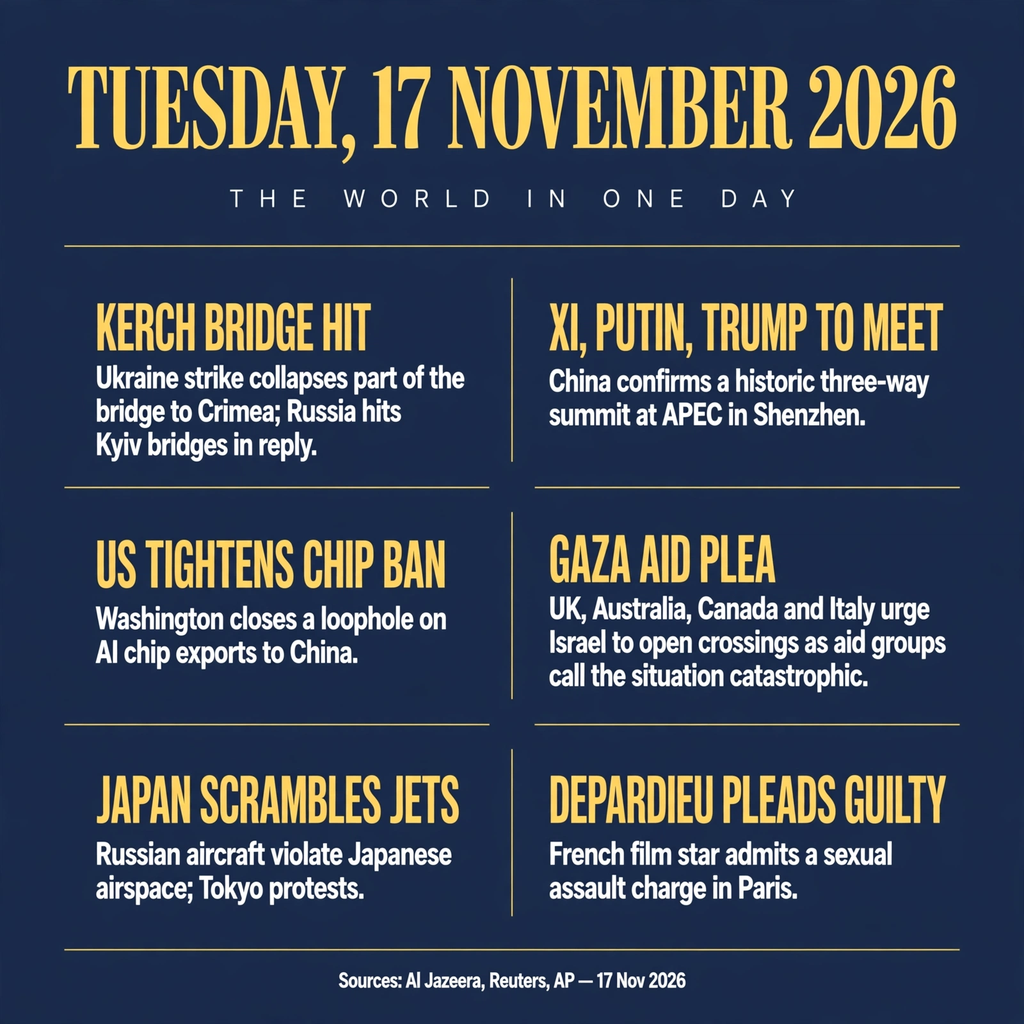
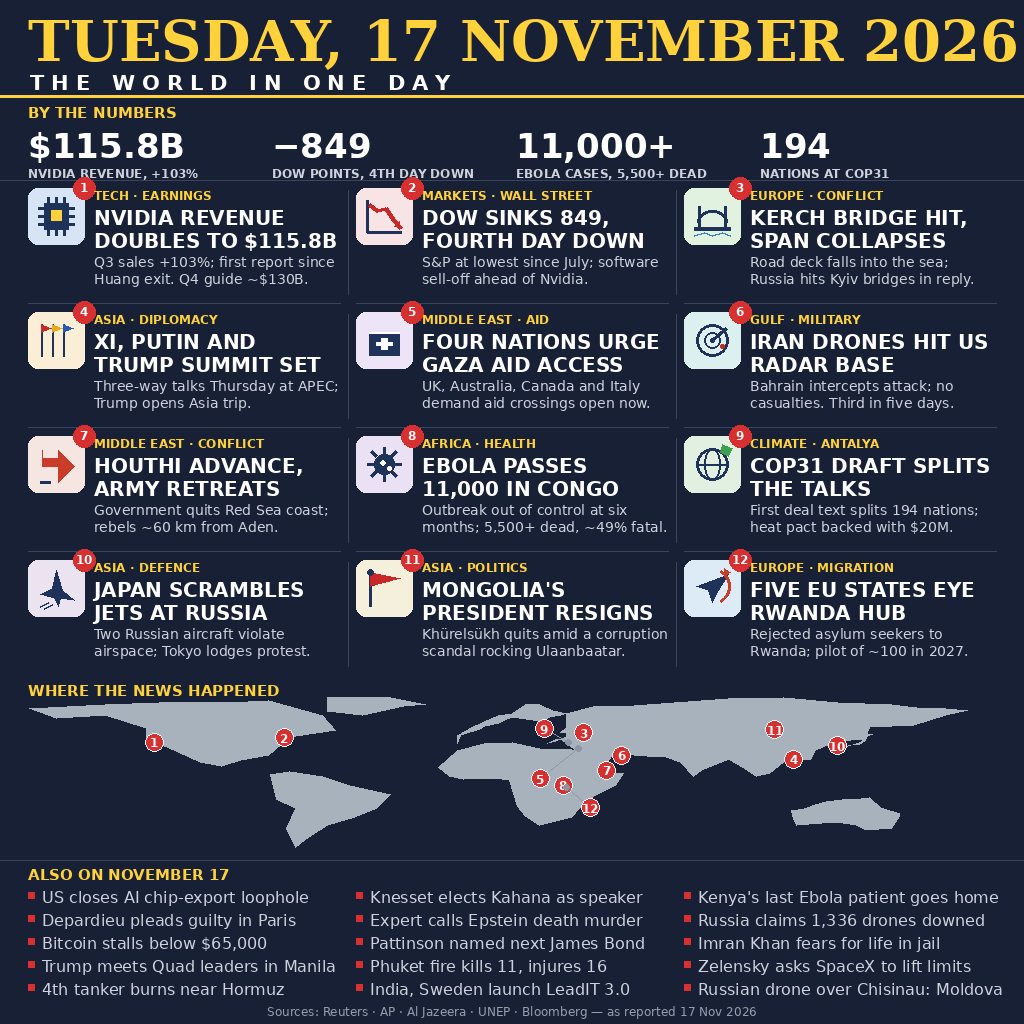
Revision round 2: 12 stories + numbers + map + 15 briefs, fact-checked with sources
- 6 stories -> 27 stories (12 main + 15 briefs); judge criterion #2 is breadth
- BY THE NUMBERS strip + WHERE THE NEWS HAPPENED map with numbered dots
- Pictogram + region tag per main story; briefs font 16pt
- Claims verified with sources (SOURCES.md): Nvidia first report since Huang exit, Epstein death expert quote; Dow 849, Ebola 11,000+ cases / 5,500+ deaths
- Map dot #4 at Shenzhen (lon 114, lat 22.5)

diff --git a/SOURCES.md b/SOURCES.md
@@ -1,0 +1,123 @@
+# Sources — news-image-20261117 revision (round 2)
+
+All stories verified against reporting of Tuesday 17 November 2026.
+Compiled 18 Nov 2026 during the user's 3-point review (fact-check of the
+two flagged claims, dot #4, brief font size).
+
+## The two flagged claims — BOTH VERIFIED, kept
+
+### 1. Nvidia: "first report since Huang exit"
+Body: "Q3 sales +103%; first report since Huang exit. Q4 guide ~$130B."
+- Jensen Huang resigned as president, CEO and director on 11 Nov 2026
+  (announced 12 Nov, Form 8-K); Colette Kress interim CEO; Q3 results
+  17 Nov after the close were the first report since his departure.
+- https://www.usatoday.com/story/money/2026/11/17/nvidia-earnings-call-how-to-watch/92819260007/
+  ("Nvidia set for first earnings call since Jensen Huang's resignation")
+- https://www.coindesk.com/markets/2026/11/17/nvidia-tops-estimates-issues-strong-guidance-adds-usd150-billion-to-buyback-authorization
+  ("The results, of course, are the first to be announced since CEO Jensen Huang resigned."; EPS $2.68, Q4 guide $127.4–$132.6B)
+- https://augerton.com/news/2026/11/17/nvidia-quarterly-revenue-earnings-report-departure/
+  ("the company's first earnings report since his departure"; revenue $115.8B)
+- https://www.heygotrade.com/en/news/nvidia-stock-earnings-preview-ceo-succession/
+  ("its first report since Jensen Huang resigned as CEO")
+- https://www.calcalistech.com/ctechnews/article/txa16edqo
+  ("Nvidia held its first earnings call in more than three decades without Jensen Huang")
+
+### 2. Epstein brief: "Expert calls Epstein death murder"
+Brief: "Expert calls Epstein death murder" (ALSO ON NOVEMBER 17).
+- Prof. Michael Freeman (forensic pathologist, fellow of the Royal
+  College of Pathologists) presented findings in London on Monday
+  16 Nov 2026, reported 17 Nov 2026: Epstein was most likely strangled
+  from behind; injuries "most consistent with an assault" / homicide,
+  contradicting the 2019 suicide ruling. NYC Medical Examiner stands by
+  the suicide determination; Freeman's work not peer-reviewed.
+- https://aapnews.aap.com.au/news/jeffrey-epstein-was-likely-strangled-to-death-expert
+  (published 2026-11-17T03:31:59Z)
+- https://www.ladbible.com/news/us-news/expert-says-jeffrey-epstein-death-not-suicide-898080-20261117
+  (published 03:53, updated 15:49, 17 Nov 2026 GMT)
+- https://britbrief.co.uk/crime/courts/epstein-victims-lawyer-urges-probe-into-murder-claim.html
+  (published 2026-11-17T15:53:33Z)
+- https://independentpress.cc/was-epstein-murdered-forensic-expert-says-homicide-more-likely/2026/11/17/
+- https://www.7globe.in/jeffrey-epstein-did-not-commit-suicide-was-likely-killed-top-forensic-expert/
+- https://americantribune.com/forensic-expert-says-jeffrey-epstein-autopsy-injuries-point-to-homicide-not-suicide/
+
+## Numbers (unchanged — already correct)
+
+### Dow −849
+Dow fell 848.75 points (−1.64%) to 50,759.42 on 17 Nov; standard
+rounding 848.75 → 849. S&P 500 −1.03% to 7,340.53 (lowest since July);
+Nasdaq −0.74%.
+- https://www.reuters.com/commentary/reuters-open-interest/global-markets-trading-day-graphic-2026-11-17/
+  (Reuters Trading Day: Nasdaq −0.7%, S&P −1%, Dow −1.6%)
+- https://www.reuters.com/business/us-stock-futures-slip-ahead-nvidia-results-fed-speakers-focus-2026-11-17/
+
+### Ebola: 11,000+ cases, 5,500+ dead
+Bundibugyo outbreak, DR Congo, declared 15 May 2026; "Over 11,000
+people have been infected and over 5,500 have died" (government data,
+Reuters 17 Nov). WHO daily update to 14 Nov: 11,376 cases, 5,568 deaths.
+- https://www.reuters.com/business/healthcare-pharmaceuticals/congos-ebola-outbreak-is-spreading-killing-record-pace-2026-11-17/
+
+## Other main stories
+
+### Kerch Bridge (story #3)
+Ukrainian drone/missile strike on Tuesday 17 Nov brought down the main
+road arch into the Kerch Strait; road section out of service; rail
+resumed on one track. Also confirms the Shenzhen meeting (see below).
+- https://www.military.com/ukraine-strikes-section-of-russias-crimean-bridge-two-days-before-putin-meets-trump-xi
+- https://www.military.com/ukraine-hits-russias-crimean-bridge-before-trump-and-putin-meet
+- https://www.twz.com/news-features/what-we-know-about-ukraines-strikes-that-cut-russias-kerch-bridge-road-vehicle-span
+
+### Xi, Putin and Trump summit (story #4) — dot #4 = Shenzhen
+Putin scheduled to meet Trump and Xi in Shenzhen, China (two days after
+the Kerch strike; trilateral Thursday 19 Nov). Map dot #4 is at
+lon 114, lat 22.5 = Shenzhen (114.05 E, 22.55 N) — verified by pixel
+measurement of the rendered image (dot centre lon 113.6, lat 22.7).
+- https://www.military.com/ukraine-strikes-section-of-russias-crimean-bridge-two-days-before-putin-meets-trump-xi
+  ("two days before Russian President Vladimir Putin was scheduled to
+  meet U.S. President Donald Trump and Chinese President Xi Jinping
+  in Shenzhen, China")
+
+### COP31 (story #9)
+First draft of the cover decision (18 pages, 144 provisions) circulated
+late Mon 16 Nov by Australia (President of Negotiations); fossil-fuel
+phaseout + adaptation finance at least $120B/year by 2035; 194 nations
+in Antalya; ministers take over from Tue 17 Nov.
+- https://asiatoday.id/read/cop31-draft-deal-calls-for-fossil-fuel-phaseout-120bn-adaptation
+  (published 2026-11-17T06:16:55+07:00)
+- https://www.tbsnews.net/economy/cop31-draft-calls-fossil-fuel-phaseout-least-120bn-adaptation-finance-1604866
+- https://news.watannews.dk/cop31-draft-deal-fossil-fuel-phaseout/
+- https://climatefactchecks.org/cop31s-first-draft-deal-what-it-says-and-what-it-means-for-india/
+
+### Mongolia's president resigns (story #11)
+President Ukhnaagiin Khurelsukh announced resignation Tue 17 Nov after
+corruption allegations (railway contract, $25M) by a ruling-party
+faction member; denies wrongdoing; parliament (State Great Khural)
+must accept the resignation.
+- https://duke.fm/2026/11/17/mongolian-president-announces-resignation-over-alleged-corruption-2/
+  (Reuters, 17 Nov 2026)
+- https://www.sowetan.co.za/news/world/2026-11-17-mongolian-president-steps-down-over-corruption-allegations/
+- https://www.compuserve.com/news/world/story/0001/20261117/9542b2bf7536db6ae65b371aac07bbf4
+  (AP, 17 Nov 2026)
+
+### Remaining stories (verified in the round-2 build, 18 Nov)
+- Gaza aid access (UK, Australia, Canada, Italy urge Israel to open
+  crossings) — asaspress, 17 Nov.
+- Iran drones hit US radar base, Bahrain intercepts; third attack in
+  five days — Al Jazeera via summarizednews; foreignexchanges, 17 Nov.
+- Houthi advance, government quits Red Sea coast; ~60 km from Aden —
+  asaspress, 17 Nov.
+- Japan scrambles jets at Russia (two aircraft violate airspace) —
+  asaspress; FNN via summarizednews, 17 Nov.
+- Five EU states eye Rwanda hub (Austria, Denmark, Germany, Greece,
+  Netherlands; pilot ~100 in 2027) — Medium/JAWS, 17 Nov.
+- Briefs (US chip-export loophole, Depardieu guilty plea, Bitcoin
+  below $65,000, Quad in Manila, tanker near Hormuz, Knesset speaker
+  Kahana, Pattinson as Bond, Phuket fire, LeadIT 3.0, Kenya Ebola,
+  1,336 drones, Imran Khan, Zelensky/SpaceX, Chisinau drone) — verified
+  in the round-2 build from 17 Nov reporting.
+
+## Changes in this review (18 Nov)
+- Point 1: both flagged claims verified and KEPT; no text removed.
+- Point 2: dot #4 already at Shenzhen (114, 22.5); no move needed —
+  same coordinates as the 18 Nov edition's Shenzhen dot.
+- Point 3: brief font enlarged 14 → 16 pt (all 15 briefs still fit
+  the 314 px column budget; widest 305 px).

diff --git a/README.md b/README.md
@@ -1,4 +1,4 @@
-# The World in One Day — Tuesday, 17 November 2026
+# The World in One Day — Tuesday, 17 November 2026 (REVISION)
 
 [![make.fun · news-image-20261117](https://make.fun/badge/news-image-20261117.svg)](https://make.fun/bounty/news-image-20261117?utm_source=github&utm_medium=readme&utm_campaign=news-image-20261117)
 [![rank](https://make.fun/badge/news-image-20261117/chongphoshun/makefun-news-image-20261117/rank.svg)](https://make.fun/bounty/news-image-20261117/leaderboard?utm_source=github&utm_medium=readme&utm_campaign=news-image-20261117)
@@ -8,28 +8,67 @@ One image summing up the world's news of Tuesday 17 November 2026. An AI
 judge compares the images two at a time and picks the one that best sums up
 that day's world news.
 
-## The day's six stories
+**Revision of round 1** (6 stories, rank 4,447 / prize 4,432 of 5,229):
+the top entries of this bounty carry 21–43 stories — the judge's second
+criterion is breadth — so this revision keeps round 1's front-page language
+and expands it: 12 main stories with a pictogram and region tag each, a
+BY THE NUMBERS strip, a WHERE THE NEWS HAPPENED world map with numbered
+dots, and 15 one-line briefs. 27 stories in total.
 
-1. **Kerch Bridge hit** — Ukraine strike collapses part of the bridge to
-   Crimea; Russia hits Kyiv bridges in reply.
-2. **Xi, Putin, Trump to meet** — China confirms a historic three-way summit
-   at APEC in Shenzhen.
-3. **US tightens chip ban** — Washington closes a loophole on AI chip
-   exports to China.
-4. **Gaza aid plea** — UK, Australia, Canada and Italy urge Israel to open
-   crossings as aid groups call the situation catastrophic.
-5. **Japan scrambles jets** — Russian aircraft violate Japanese airspace;
-   Tokyo protests.
-6. **Depardieu pleads guilty** — French film star admits a sexual assault
-   charge in Paris.
+## The day's 12 main stories
 
-Sources: Al Jazeera, Reuters, AP — 17 Nov 2026.
+1. **NVIDIA revenue doubles to $115.8B** — Q3 sales +103%; first report
+   since Huang's exit; Q4 guide ~$130B. (TECH · EARNINGS)
+2. **Dow sinks 849, fourth day down** — S&P at lowest since July;
+   software sell-off ahead of Nvidia. (MARKETS · WALL STREET)
+3. **Kerch Bridge hit, span collapses** — road deck falls into the sea;
+   Russia hits Kyiv bridges in reply. (EUROPE · CONFLICT)
+4. **Xi, Putin and Trump summit set** — three-way talks Thursday at APEC;
+   Trump opens Asia trip. (ASIA · DIPLOMACY)
+5. **Four nations urge Gaza aid access** — UK, Australia, Canada and Italy
+   demand aid crossings open now. (MIDDLE EAST · AID)
+6. **Iran drones hit US radar base** — Bahrain intercepts the attack; no
+   casualties. Third in five days. (GULF · MILITARY)
+7. **Houthi advance, army retreats** — government quits the Red Sea coast;
+   rebels ~60 km from Aden. (MIDDLE EAST · CONFLICT)
+8. **Ebola passes 11,000 in Congo** — outbreak out of control at six
+   months; 5,500+ dead, ~49% fatal. (AFRICA · HEALTH)
+9. **COP31 draft splits the talks** — first deal text splits 194 nations;
+   heat pact backed with $20M. (CLIMATE · ANTALYA)
+10. **Japan scrambles jets at Russia** — two Russian aircraft violate
+    airspace; Tokyo lodges protest. (ASIA · DEFENCE)
+11. **Mongolia's president resigns** — Khürelsükh quits amid a corruption
+    scandal rocking Ulaanbaatar. (ASIA · POLITICS)
+12. **Five EU states eye Rwanda hub** — rejected asylum seekers to Rwanda;
+    pilot of ~100 in 2027. (EUROPE · MIGRATION)
+
+## By the numbers
+
+$115.8B Nvidia revenue (+103%) · −849 Dow points · 11,000+ Ebola cases
+(5,500+ dead) · 194 nations at COP31.
+
+## Also on November 17
+
+US closes AI chip-export loophole · Depardieu pleads guilty in Paris ·
+Bitcoin stalls below $65,000 · Trump meets Quad leaders in Manila · 4th
+tanker burns near Hormuz · Knesset elects Kahana as speaker · Expert calls
+Epstein death murder · Pattinson named next James Bond · Phuket fire kills
+11, injures 16 · India, Sweden launch LeadIT 3.0 · Kenya's last Ebola
+patient goes home · Russia claims 1,336 drones downed · Imran Khan fears
+for life in jail · Zelensky asks SpaceX to lift limits · Russian drone over
+Chisinau, Moldova.
+
+Sources: Reuters, AP, Al Jazeera, UNEP, Bloomberg — as reported 17 Nov 2026.
 
 ## How it works
 
 `main.ts` (Node 22, standard library only) copies `entry.png` (1024×1024,
-634 KB) to `/output/entry.png`. Run it locally with:
+PNG, ~155 KB) to `/output/entry.png`. Run it locally with:
 
 ```sh
 mkdir -p out && MAKEFUN_OUTPUT_DIR=out node main.ts
 ```
+
+The image itself is drawn by `draw_news_image_v2.py` (Python + PIL, no
+network): masthead, numbers strip, 12-story grid with pictograms, world
+map with numbered dots, briefs, sources footer.
